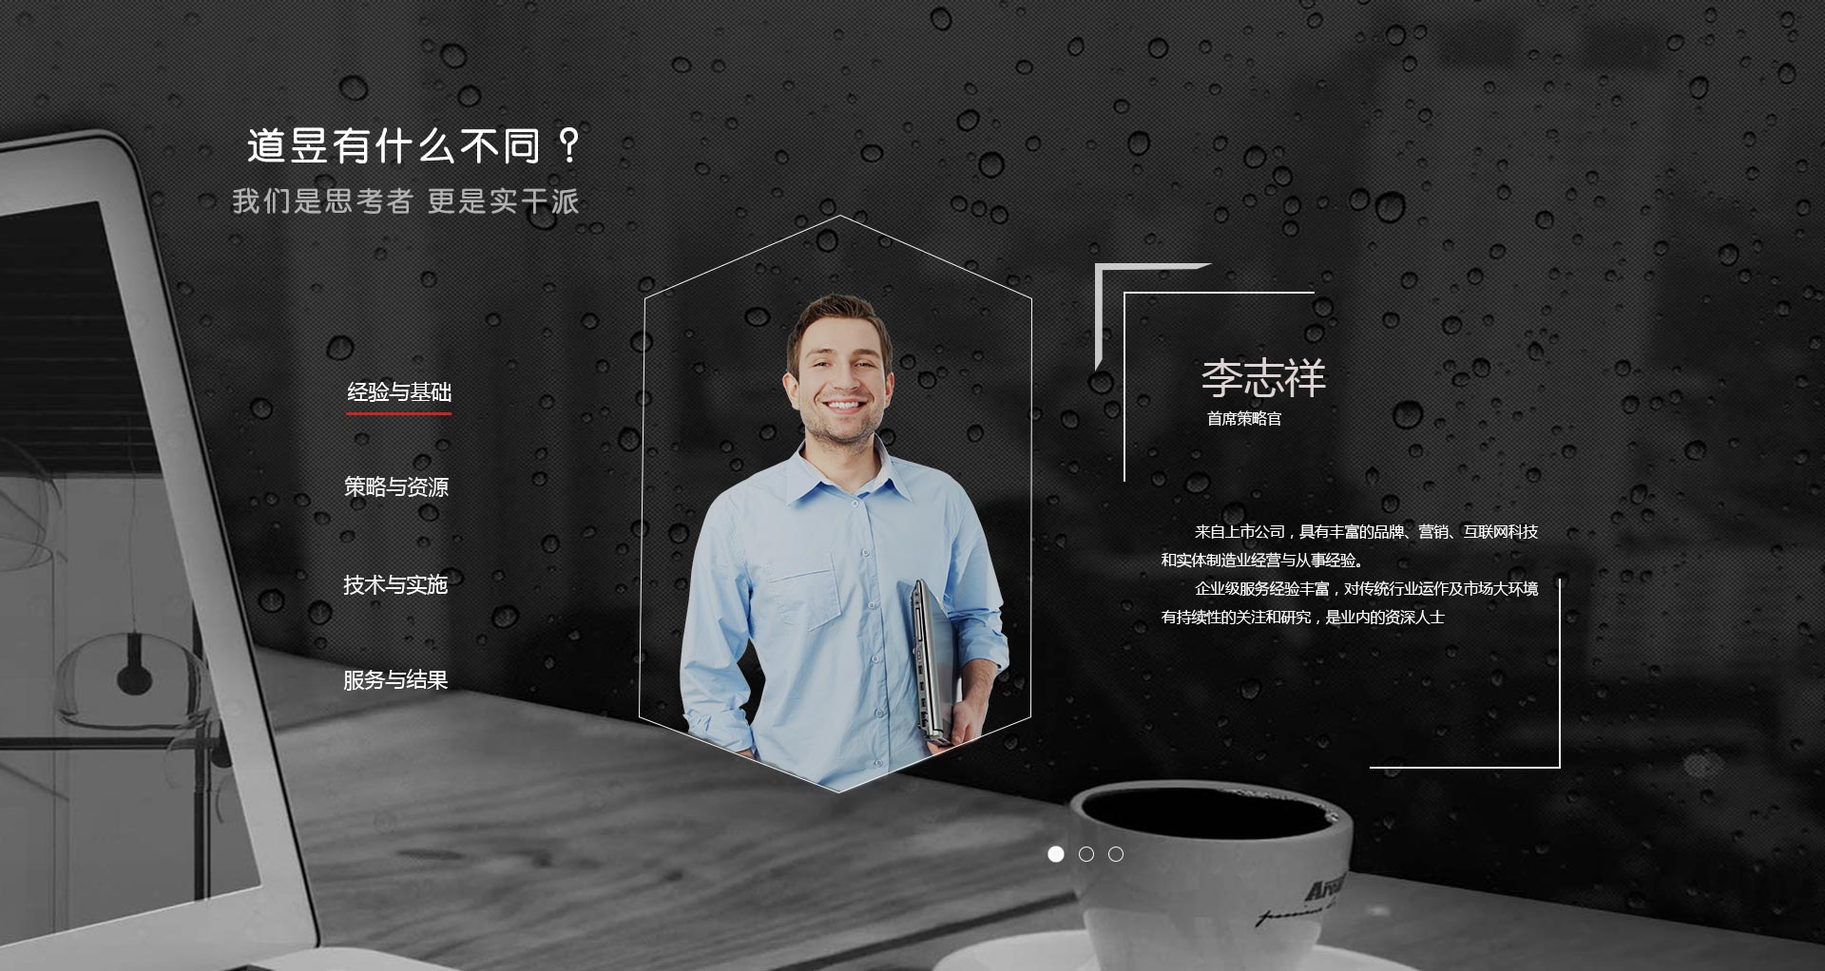
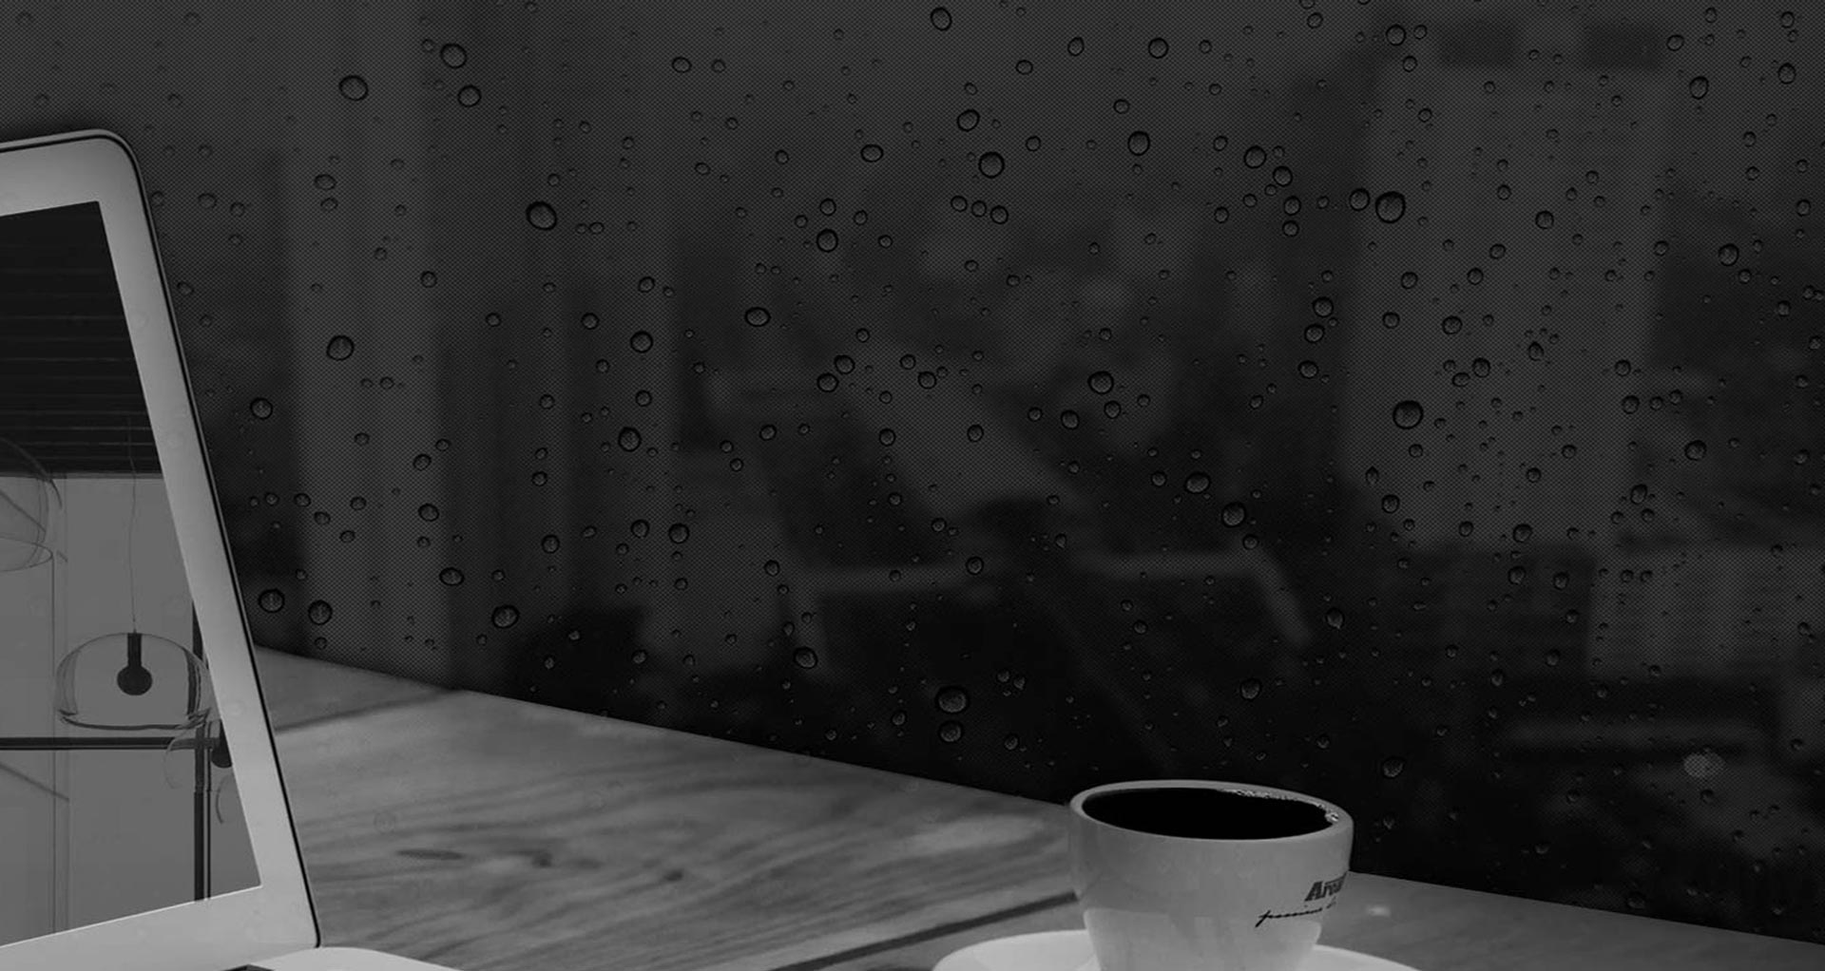
update

diff --git a/css/min.main.css b/css/min.main.css
@@ -1,2 +1,2 @@
-/* daoyu 2017-03-13T19:32:43 */
-*{margin:0;padding:0}body{}ul{list-style-type:none}img{border:0}.fp-tableCell{display:block}.menu{position:fixed;top:0;width:100%;overflow:hidden;z-index:10}.smenu{position:absolute;right:40px;top:26px;width:35px;display:none}.logo{float:left;margin-top:13px;margin-left:100px}.logo a{display:inline-block}.logo img{height:68px}.nav{float:right;margin-top:30px;font-size:0;margin-right:100px}.nav li{display:inline-block;margin-left:30px}.nav a{display:inline-block;height:30px;line-height:30px;font-size:14px;color:#fff;text-decoration:none}.nav a:hover,.nav a.current{color:red}.section{background-repeat:no-repeat;background-position:50% 50%;background-size:cover;overflow:hidden}#section0 .shade{width:100%;height:100%;background:#000;-moz-opacity:0;opacity:0;filter:alpha(opacity=0);-webkit-transition:all .5s ease-in-out .3s;-moz-transition:all .5s ease-in-out .3s;-ms-transition:all .5s ease-in-out .3s;-o-transition:all .5s ease-in-out .3s;transition:all .5s ease-in-out .3s}#section0 .active .shade{width:50%;-moz-opacity:.5;opacity:.5;filter:alpha(opacity=50)}#section1{background-image:url(../img/bg2.jpg)}#section2{background-image:url(../img/bg3.jpg)}#section3{background-image:url(../img/bg4.jpg)}.slide{width:33.333%;height:100%;display:block;float:left;background-repeat:no-repeat;background-position:50% 50%;background-size:cover;overflow:hidden}.slide .box{text-align:center}.slide u{margin:0 5px;color:#d81e1f;text-decoration:none}.slide .bottom{color:#ddd;font-size:16px}.slide{background-repeat:no-repeat;background-position:50% 50%;background-size:cover;overflow:hidden;position:relative}.banner1{background-image:url(../img/banner2.jpg?v=1)}.banner1 .box{position:absolute;width:100%;top:50%;margin-top:-104px}.banner1 .top{position:relative;opacity:0;top:-100px;-webkit-transition:all .3s linear .2s;transition:all .3s linear .2s}.banner1 .top span{display:inline-block;background:url(../img/bg1.png?v=1) no-repeat -22px -12px;width:407px;height:95px;margin-bottom:30px}.banner1 .bottom{font-size:16px;line-height:27px;position:relative;top:-128px;opacity:0;-webkit-transition:all .3s linear 0s;transition:all .3s linear 0s}.animate .banner1 .top,.animate .banner1 .bottom{top:0;-moz-opacity:1;opacity:1}.banner2{background-image:url(../img/banner1.jpg?v=2)}.banner2 .box{position:absolute;top:50%;width:100%;text-align:center;margin-top:-85px}.banner2 .box span{display:inline-block;background:url(../img/bg1.png?v=1) no-repeat -8px -129px;width:396px;height:102px}.banner2 .box div{display:inline-block;width:396px}.banner2 .box p{text-align:right;color:#ddd;font-size:12px;margin-bottom:10px}.banner3{background-image:url(../img/banner3.jpg?v=1)}.banner3 .box{position:absolute;top:50%;width:100%;text-align:center;margin-top:-153px}.banner3 .box span{display:inline-block;background:url(../img/bg1.png?v=1) no-repeat -15px -724px;width:400px;height:304px}.banner3 .box span.camera{position:absolute;background-position:0 -297px;width:543px;height:416px;z-index:2;left:50%;margin-left:-272px;top:50%;margin-top:-208px}@media (max-width:960px) and (max-height:700px){.banner3{background-position:55% 60%}}@media (max-width:860px){.nav{display:none;position:absolute;top:0;left:0;width:100%;text-align:center;height:100%;z-index:10;background:#000;opacity:.8;margin-top:0;padding-top:100px}.nav li{display:inline-block;width:50%;margin-left:0;margin-top:25px;float:left}.logo img{height:60px}.logo{margin-left:40px}.smenu{right:30px;top:27px;width:28px;display:block}.banner1 .box{margin-top:-100px}.banner1 .top span{background-position:-15px -8px;background-size:437px 828px;width:343px;height:87px}.banner2 .box{margin-top:-85px}.banner2 .box span{background-position:-6px -103px;background-size:437px 828px;width:320px;height:83px}.banner2 .box div{width:320px}.banner3 .box span{background-position:-23px -492px;background-size:370px 700px;width:256px;height:210px}.banner3 .box span.camera{background-position:0 -201px;width:371px;height:288px;margin-left:-185px;margin-top:-144px}}@media (max-width:420px){.logo img{height:52px}.logo{margin-left:22px}.smenu{right:25px;top:30px;width:25px;display:block}.banner1 .box{margin-top:-75px}.banner1 .top span{background-position:-13px -7px;background-size:332px 628px;width:248px;height:61px;margin-bottom:20px}.banner1 .bottom{position:relative;font-size:13px;line-height:22px}.banner2 .box{margin-top:-65px}.banner2 .box span{background-position:6px -77px;background-size:332px 628px;width:262px;height:63px}.banner2 .box div{width:264px}.banner3 .box{margin-top:-108px}.banner3 .box span{background-position:-23px -422px;background-size:317px 600px;width:214px;height:179px}.banner3 .box span.camera{background-size:291px 550px;background-position:25px -157px;width:318px;height:227px;margin-left:-173px;margin-top:-114px}}#fp-nav ul li a span,.fp-slidesNav ul li a span{background-color:#fff}body{background-image:url(images/background-photo.jpg);background-position:center center;background-repeat:no-repeat;background-attachment:fixed;background-size:cover;background-color:#464646;font-family:'microsoft yahei',Arial,sans-serif}@media only screen and (max-width:767px){body{background-image:url(images/background-photo-mobile-devices.jpg)}}
+/* daoyu 2017-03-13T20:54:07 */
+*{margin:0;padding:0}body{}ul{list-style-type:none}img{border:0}.fp-tableCell{display:block}.menu{position:fixed;top:0;width:100%;overflow:hidden;z-index:10}.smenu{position:absolute;right:40px;top:26px;width:35px;display:none}.logo{float:left;margin-top:13px;margin-left:100px}.logo a{display:inline-block}.logo img{height:68px}.nav{float:right;margin-top:30px;font-size:0;margin-right:100px}.nav li{display:inline-block;margin-left:30px}.nav a{display:inline-block;height:30px;line-height:30px;font-size:14px;color:#fff;text-decoration:none}.nav a:hover,.nav a.current{color:red}.section{background-repeat:no-repeat;background-position:50% 50%;background-size:cover;overflow:hidden}#section0 .shade{width:100%;height:100%;background:#000;-moz-opacity:0;opacity:0;filter:alpha(opacity=0);-webkit-transition:all .5s ease-in-out .3s;-moz-transition:all .5s ease-in-out .3s;-ms-transition:all .5s ease-in-out .3s;-o-transition:all .5s ease-in-out .3s;transition:all .5s ease-in-out .3s}#section0 .active .shade{width:50%;-moz-opacity:.5;opacity:.5;filter:alpha(opacity=50)}#section1{background-image:url(../img/bg2.jpg)}#section2{background-image:url(../img/bg3.jpg)}#section3{background-image:url(../img/bg4.jpg)}.slide{width:33.333%;height:100%;display:block;float:left;background-repeat:no-repeat;background-position:50% 50%;background-size:cover;overflow:hidden}.slide .box{text-align:center}.slide u{margin:0 5px;color:#d81e1f;text-decoration:none}.slide .bottom{color:#ddd;font-size:16px}.slide{background-repeat:no-repeat;background-position:50% 50%;background-size:cover;overflow:hidden;position:relative}.banner1{background-image:url(../img/banner2.jpg?v=1)}.banner1 .box{position:absolute;width:100%;top:50%;margin-top:-104px}.banner1 .top{position:relative;opacity:0;top:-100px;-webkit-transition:all .3s linear .2s;transition:all .3s linear .2s}.banner1 .top span{display:inline-block;background:url(../img/bg1.png?v=1) no-repeat -22px -12px;width:407px;height:95px;margin-bottom:30px}.banner1 .bottom{font-size:16px;line-height:27px;position:relative;top:-128px;opacity:0;-webkit-transition:all .3s linear 0s;transition:all .3s linear 0s}.animate .banner1 .top,.animate .banner1 .bottom{top:0;-moz-opacity:1;opacity:1}.banner2{background-image:url(../img/banner1.jpg?v=2)}.banner2 .box{position:absolute;top:50%;width:100%;text-align:center;margin-top:-85px}.banner2 .box span{display:inline-block;background:url(../img/bg1.png?v=1) no-repeat -8px -129px;width:396px;height:102px}.banner2 .box div{display:inline-block;width:396px}.banner2 .box p{text-align:right;color:#ddd;font-size:12px;margin-bottom:10px}.banner3{background-image:url(../img/banner3.jpg?v=1)}.banner3 .box{position:absolute;top:50%;width:100%;text-align:center;margin-top:-153px}.banner3 .box span{display:inline-block;background:url(../img/bg1.png?v=1) no-repeat -15px -724px;width:400px;height:304px}.banner3 .box span.camera{position:absolute;background-position:0 -297px;width:543px;height:416px;z-index:2;left:50%;margin-left:-272px;top:50%;margin-top:-208px}@media (max-width:960px) and (max-height:700px){.banner3{background-position:55% 60%}}@media (max-width:860px){.nav{display:none;position:absolute;top:0;left:0;width:100%;text-align:center;height:100%;z-index:10;background:#000;opacity:.8;margin-top:0;padding-top:100px}.nav li{display:inline-block;width:50%;margin-left:0;margin-top:25px;float:left}.logo img{height:60px}.logo{margin-left:40px}.smenu{right:30px;top:27px;width:28px;display:block}.banner1 .box{margin-top:-100px}.banner1 .top span{background-position:-15px -8px;background-size:437px 828px;width:343px;height:87px}.banner2 .box{margin-top:-85px}.banner2 .box span{background-position:-6px -103px;background-size:437px 828px;width:320px;height:83px}.banner2 .box div{width:320px}.banner3 .box span{background-position:-23px -492px;background-size:370px 700px;width:256px;height:210px}.banner3 .box span.camera{background-position:0 -201px;width:371px;height:288px;margin-left:-185px;margin-top:-144px}}@media (max-width:420px){.logo img{height:52px}.logo{margin-left:22px}.smenu{right:25px;top:30px;width:25px;display:block}.banner1 .box{margin-top:-75px}.banner1 .top span{background-position:-13px -7px;background-size:332px 628px;width:248px;height:61px;margin-bottom:20px}.banner1 .bottom{position:relative;font-size:13px;line-height:22px}.banner2 .box{margin-top:-65px}.banner2 .box span{background-position:6px -77px;background-size:332px 628px;width:262px;height:63px}.banner2 .box div{width:264px}.banner3 .box{margin-top:-108px}.banner3 .box span{background-position:-23px -422px;background-size:317px 600px;width:214px;height:179px}.banner3 .box span.camera{background-size:291px 550px;background-position:25px -157px;width:318px;height:227px;margin-left:-173px;margin-top:-114px}}#fp-nav ul li a span,.fp-slidesNav ul li a span{background-color:#fff}*{margin:0;padding:0}body{}ul{list-style-type:none}img{border:0}.fp-tableCell{display:block}.menu{position:fixed;top:0;width:100%;overflow:hidden;z-index:10}.smenu{position:absolute;right:40px;top:26px;width:35px;display:none}.logo{float:left;margin-top:13px;margin-left:100px}.logo a{display:inline-block}.logo img{height:68px}.nav{float:right;margin-top:30px;font-size:0;margin-right:100px}.nav li{display:inline-block;margin-left:30px}.nav a{display:inline-block;height:30px;line-height:30px;font-size:14px;color:#fff;text-decoration:none}.nav a:hover,.nav a.current{color:red}.section{background-repeat:no-repeat;background-position:50% 50%;background-size:cover;overflow:hidden}#section0 .shade{width:100%;height:100%;background:#000;-moz-opacity:0;opacity:0;filter:alpha(opacity=0);-webkit-transition:all .5s ease-in-out .3s;-moz-transition:all .5s ease-in-out .3s;-ms-transition:all .5s ease-in-out .3s;-o-transition:all .5s ease-in-out .3s;transition:all .5s ease-in-out .3s}#section0 .active .shade{width:50%;-moz-opacity:.5;opacity:.5;filter:alpha(opacity=50)}#section1{background-image:url(../img/bg2.jpg)}#section2{background-image:url(../img/bg3.jpg)}#section3{background-image:url(../img/bg4.jpg)}.slide{width:33.333%;height:100%;display:block;float:left;background-repeat:no-repeat;background-position:50% 50%;background-size:cover;overflow:hidden}.slide .box{text-align:center}.slide u{margin:0 5px;color:#d81e1f;text-decoration:none}.slide .bottom{color:#ddd;font-size:16px}.slide{background-repeat:no-repeat;background-position:50% 50%;background-size:cover;overflow:hidden;position:relative}.banner1{background-image:url(../img/banner2.jpg?v=1)}.banner1 .box{position:absolute;width:100%;top:50%;margin-top:-104px}.banner1 .top{position:relative;opacity:0;top:-100px;-webkit-transition:all .3s linear .2s;transition:all .3s linear .2s}.banner1 .top span{display:inline-block;background:url(../img/bg1.png?v=1) no-repeat -22px -12px;width:407px;height:95px;margin-bottom:30px}.banner1 .bottom{font-size:16px;line-height:27px;position:relative;top:-128px;opacity:0;-webkit-transition:all .3s linear 0s;transition:all .3s linear 0s}.animate .banner1 .top,.animate .banner1 .bottom{top:0;-moz-opacity:1;opacity:1}.banner2{background-image:url(../img/banner1.jpg?v=2)}.banner2 .box{position:absolute;top:50%;width:100%;text-align:center;margin-top:-85px}.banner2 .box span{display:inline-block;background:url(../img/bg1.png?v=1) no-repeat -8px -129px;width:396px;height:102px}.banner2 .box div{display:inline-block;width:396px}.banner2 .box p{text-align:right;color:#ddd;font-size:12px;margin-bottom:10px}.banner3{background-image:url(../img/banner3.jpg?v=1)}.banner3 .box{position:absolute;top:50%;width:100%;text-align:center;margin-top:-153px}.banner3 .box span{display:inline-block;background:url(../img/bg1.png?v=1) no-repeat -15px -724px;width:400px;height:304px}.banner3 .box span.camera{position:absolute;background-position:0 -297px;width:543px;height:416px;z-index:2;left:50%;margin-left:-272px;top:50%;margin-top:-208px}@media (max-width:960px) and (max-height:700px){.banner3{background-position:55% 60%}}@media (max-width:860px){.nav{display:none;position:absolute;top:0;left:0;width:100%;text-align:center;height:100%;z-index:10;background:#000;opacity:.8;margin-top:0;padding-top:100px}.nav li{display:inline-block;width:50%;margin-left:0;margin-top:25px;float:left}.logo img{height:60px}.logo{margin-left:40px}.smenu{right:30px;top:27px;width:28px;display:block}.banner1 .box{margin-top:-100px}.banner1 .top span{background-position:-15px -8px;background-size:437px 828px;width:343px;height:87px}.banner2 .box{margin-top:-85px}.banner2 .box span{background-position:-6px -103px;background-size:437px 828px;width:320px;height:83px}.banner2 .box div{width:320px}.banner3 .box span{background-position:-23px -492px;background-size:370px 700px;width:256px;height:210px}.banner3 .box span.camera{background-position:0 -201px;width:371px;height:288px;margin-left:-185px;margin-top:-144px}}@media (max-width:420px){.logo img{height:52px}.logo{margin-left:22px}.smenu{right:25px;top:30px;width:25px;display:block}.banner1 .box{margin-top:-75px}.banner1 .top span{background-position:-13px -7px;background-size:332px 628px;width:248px;height:61px;margin-bottom:20px}.banner1 .bottom{position:relative;font-size:13px;line-height:22px}.banner2 .box{margin-top:-65px}.banner2 .box span{background-position:6px -77px;background-size:332px 628px;width:262px;height:63px}.banner2 .box div{width:264px}.banner3 .box{margin-top:-108px}.banner3 .box span{background-position:-23px -422px;background-size:317px 600px;width:214px;height:179px}.banner3 .box span.camera{background-size:291px 550px;background-position:25px -157px;width:318px;height:227px;margin-left:-173px;margin-top:-114px}}#fp-nav ul li a span,.fp-slidesNav ul li a span{background-color:#fff}body{background-image:url(images/background-photo.jpg);background-position:center center;background-repeat:no-repeat;background-attachment:fixed;background-size:cover;background-color:#464646;font-family:'microsoft yahei',Arial,sans-serif}@media only screen and (max-width:767px){body{background-image:url(images/background-photo-mobile-devices.jpg)}}body{background-image:url(images/background-photo.jpg);background-position:center center;background-repeat:no-repeat;background-attachment:fixed;background-size:cover;background-color:#464646;font-family:'microsoft yahei',Arial,sans-serif}@media only screen and (max-width:767px){body{background-image:url(images/background-photo-mobile-devices.jpg)}}

diff --git a/js/main.min.js b/js/main.min.js
@@ -1,2 +1,2 @@
-/* daoyu 2017-03-13T19:32:43 */
-$(function(){var a=new Date,b=a.getTime();(function(){for(var a=["img/banner1.jpg","img/banner2.jpg","img/banner3.jpg","img/bg1.png","img/bg2.jpg","img/bg3.jpg","img/bg4.jpg","img/logo.png","img/menu.png"],c=a.length,d=0,e=function(a){var e=new Image,f=(new Date).getTime();e.onload=function(){++d,(100==parseInt(d/c*100)||f-b>1e4)&&($(".loading").hide(),$("#fullpage").fullpage({navigation:!0,slidesNavigation:!0,controlArrows:!1,css3:!0,loopBottom:!0,navigation:!1,afterLoad:function(a,b){2==b?$("#fp-nav ul li a span").css("background-color","#999"):$("#fp-nav ul li a span").css("background-color","#fff"),setTimeout(function(){$($("#fullpage > div")[b-1]).addClass("animate")},500)},afterSlideLoad:function(a,b,c,d){setTimeout(function(){$($("#section0 .slide")[b]).addClass("animate")},500)}}))},e.src=a},f=0;c>f;++f)e(a[f])})();$("#shoumenu").click(function(){$(".nav").show().attr("show",1),$(".menu").css("height","100%")}),$("#nav").click(function(){$(".nav").hide().attr("show",0),$(".menu").css("height","")}),$("#nav li a").click(function(a){a.stopPropagation()}),window.onresize=function(){var a=$(window).width();if(a>=860)$(".nav").show(),$(".menu").css("height","");else{var b=$(".nav").attr("show");"1"!=b&&$(".nav").hide()}}});
+/* daoyu 2017-03-13T20:54:07 */
+$(function(){var a=new Date,b=a.getTime();(function(){for(var a=["img/banner1.jpg","img/banner2.jpg","img/banner3.jpg","img/bg1.png","img/bg2.jpg","img/bg3.jpg","img/bg4.jpg","img/logo.png","img/menu.png"],c=a.length,d=0,e=function(a){var e=new Image,f=(new Date).getTime();e.onload=function(){++d,(100==parseInt(d/c*100)||f-b>1e4)&&($(".loading").hide(),$("#fullpage").fullpage({navigation:!0,slidesNavigation:!0,controlArrows:!1,css3:!0,loopBottom:!0,navigation:!1,afterLoad:function(a,b){2==b?$("#fp-nav ul li a span").css("background-color","#999"):$("#fp-nav ul li a span").css("background-color","#fff"),setTimeout(function(){$($("#fullpage > div")[b-1]).addClass("animate")},500)},afterSlideLoad:function(a,b,c,d){setTimeout(function(){$($("#section0 .slide")[b]).addClass("animate")},500)}}))},e.src=a},f=0;c>f;++f)e(a[f])})();$("#shoumenu").click(function(){$(".nav").show().attr("show",1),$(".menu").css("height","100%")}),$("#nav").click(function(){$(".nav").hide().attr("show",0),$(".menu").css("height","")}),$("#nav li a").click(function(a){a.stopPropagation()}),window.onresize=function(){var a=$(window).width();if(a>=860)$(".nav").show(),$(".menu").css("height","");else{var b=$(".nav").attr("show");"1"!=b&&$(".nav").hide()}}}),$(function(){var a=new Date,b=a.getTime();!function(){for(var a=["img/banner1.jpg","img/banner2.jpg","img/banner3.jpg","img/bg1.png","img/bg2.jpg","img/bg3.jpg","img/bg4.jpg","img/logo.png","img/menu.png"],c=a.length,d=0,e=function(a){var e=new Image,f=(new Date).getTime();e.onload=function(){++d,(100==parseInt(d/c*100)||f-b>1e4)&&($(".loading").hide(),$("#fullpage").fullpage({navigation:!0,slidesNavigation:!0,controlArrows:!1,css3:!0,loopBottom:!0,navigation:!1,afterLoad:function(a,b){2==b?$("#fp-nav ul li a span").css("background-color","#999"):$("#fp-nav ul li a span").css("background-color","#fff"),setTimeout(function(){$($("#fullpage > div")[b-1]).addClass("animate")},500)},afterSlideLoad:function(a,b,c,d){setTimeout(function(){$($("#section0 .slide")[b]).addClass("animate")},500)}}))},e.src=a},f=0;c>f;++f)e(a[f])}(),$("#shoumenu").click(function(){$(".nav").show().attr("show",1),$(".menu").css("height","100%")}),$("#nav").click(function(){$(".nav").hide().attr("show",0),$(".menu").css("height","")}),$("#nav li a").click(function(a){a.stopPropagation()}),window.onresize=function(){var a=$(window).width();if(a>=860)$(".nav").show(),$(".menu").css("height","");else{var b=$(".nav").attr("show");"1"!=b&&$(".nav").hide()}}});

diff --git a/index.html b/index.html
@@ -106,25 +106,26 @@
     </div>
 </div>
 </div>
+<div class="menu">
+    <h1 class="logo"><a href="/"><img src="img/logo.png" alt=""/></a></h1>
+    <ul class="nav" id="nav">
+        <li><a href="javascript:" class="current">首页</a></li>
+        <li><a href="javascript:">时代</a></li>
+        <li><a href="javascript:">品牌</a></li>
+        <li><a href="javascript:">研发</a></li>
+        <li><a href="javascript:">数字</a></li>
+        <li><a href="javascript:">运营</a></li>
+        <li><a href="javascript:">智库</a></li>
+        <li><a href="http://baidu.com">TEAM</a></li>
+    </ul>
+    <a href="javascript:;" id="shoumenu"  >
+        <img class="smenu" src="img/menu.png" alt=""/>
+    </a>
+</div>
 <div id="fullpage">
     <div class="section" id="section0">
 
-            <div class="menu">
-                <h1 class="logo"><a href="/"><img src="img/logo.png" alt=""/></a></h1>
-                <ul class="nav" id="nav">
-                    <li><a href="javascript:" class="current">首页</a></li>
-                    <li><a href="javascript:">时代</a></li>
-                    <li><a href="javascript:">品牌</a></li>
-                    <li><a href="javascript:">研发</a></li>
-                    <li><a href="javascript:">数字</a></li>
-                    <li><a href="javascript:">运营</a></li>
-                    <li><a href="javascript:">智库</a></li>
-                    <li><a href="http://baidu.com">TEAM</a></li>
-                </ul>
-                <a href="javascript:;" id="shoumenu"  >
-                    <img class="smenu" src="img/menu.png" alt=""/>
-                </a>
-            </div>
+
         <div class="slide banner1">
             <div class="box">
                 <div class="top"><span></span></div>

diff --git a/js/main.js b/js/main.js
@@ -29,9 +29,15 @@ $(function(){
                                 navigation: false,
                                 afterLoad: function(anchorLink, index){
                                     if(index == 2){
-                                        $("#fp-nav ul li a span").css("background-color","#999")
+                                        $("#fp-nav ul li a span").css("background-color","#999");
+
                                     }else{
                                         $("#fp-nav ul li a span").css("background-color","#fff")
+                                    }
+                                    if(index==1){
+                                        $(".menu").css("background-color","")
+                                    }else{
+                                        $(".menu").css("background-color","rgba(0,0,0,0.6)")
                                     }
                                     setTimeout(function(){
                                         $($("#fullpage > div")[index-1]).addClass("animate");

diff --git a/css/main.css b/css/main.css
@@ -19,7 +19,9 @@ img {
   top: 0;
   width: 100%;
   overflow: hidden;
-  z-index: 10; }
+  z-index: 10;
+  -webkit-transition: all .3s linear 0s;
+  transition: all .3s linear 0s; }
 
 .smenu {
   position: absolute;
@@ -223,6 +225,9 @@ img {
   .logo {
     margin-left: 40px; }
 
+  .menu {
+    background-color: rgba(0, 0, 0, 0.6); }
+
   .smenu {
     right: 30px;
     top: 27px;
@@ -267,7 +272,7 @@ img {
 
   .smenu {
     right: 25px;
-    top: 30px;
+    top: 28px;
     width: 25px;
     display: block; }
 

diff --git a/css/main.scss b/css/main.scss
@@ -22,6 +22,8 @@ img{
   width: 100%;
   overflow: hidden;
   z-index: 10;
+  -webkit-transition: all .3s linear 0s;
+  transition: all .3s linear 0s;
 
 }
 .smenu{
@@ -280,6 +282,9 @@ img{
   .logo{
     margin-left: 40px;
   }
+  .menu{
+    background-color: rgba(0,0,0,0.6);
+  }
   .smenu{
     right: 30px;
     top: 27px;
@@ -344,7 +349,7 @@ img{
   }
   .smenu{
     right:25px;
-    top: 30px;
+    top: 28px;
     width: 25px;
     display: block;
   }
